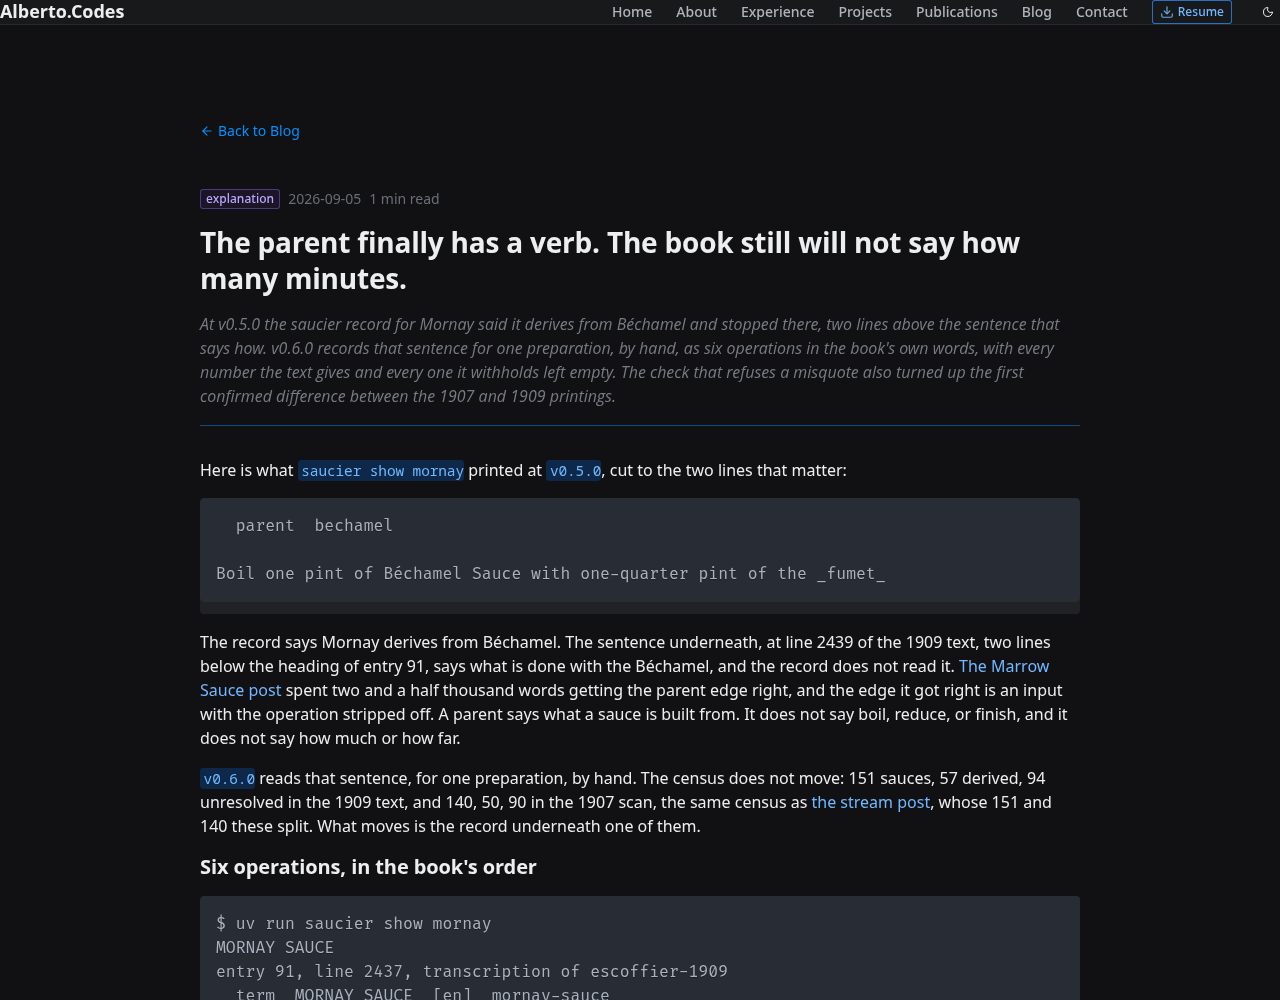
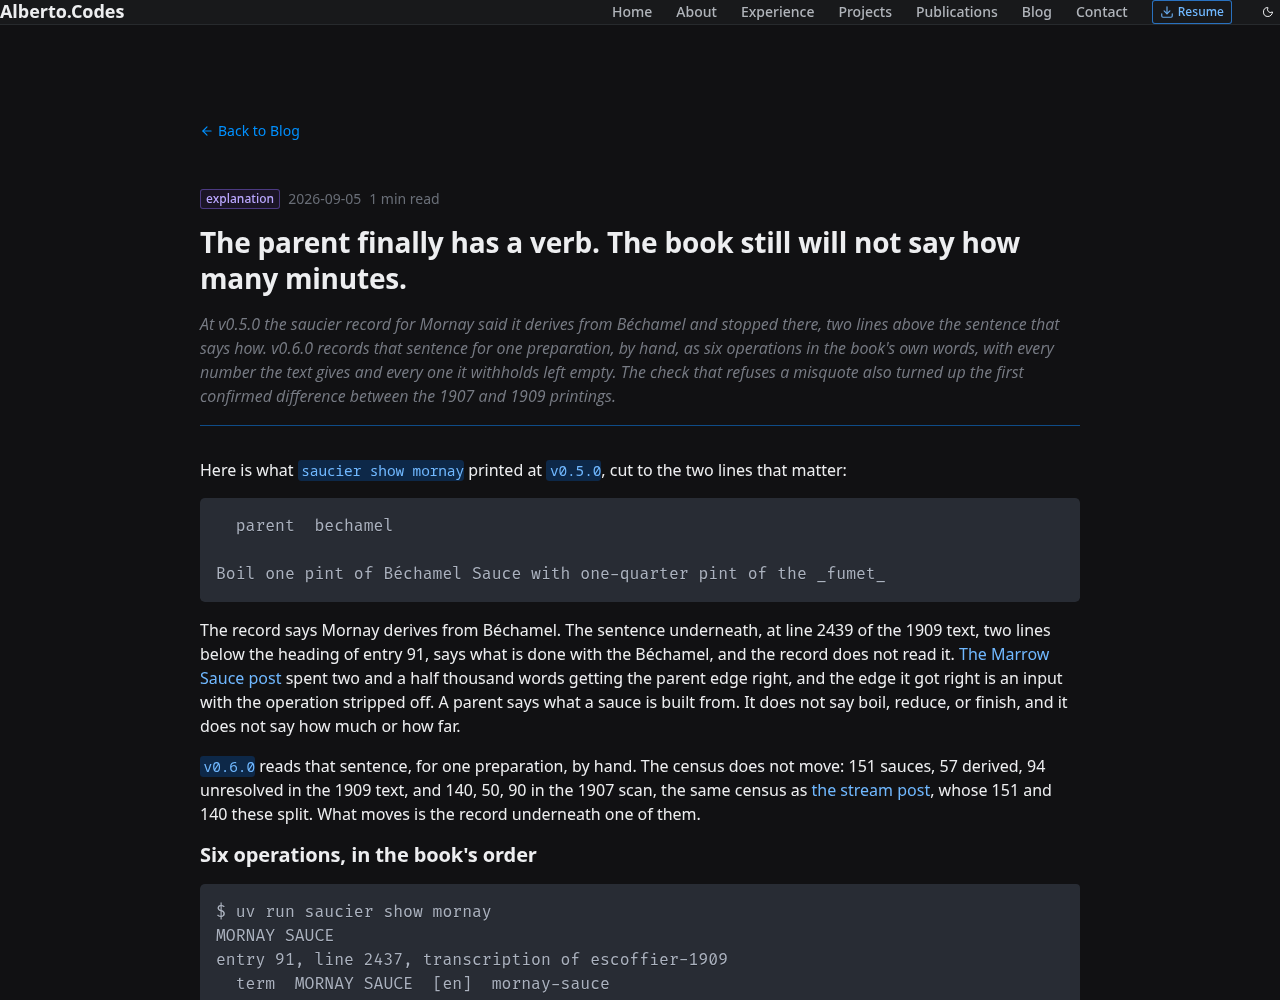
no-mistakes(review): give code cards one uniform background, drop dead min_width

Changed region(s): [[0.1562, 0.62, 0.8438, 1.0]]

diff --git a/src/alberto_codes_site/pages/blog.py b/src/alberto_codes_site/pages/blog.py
@@ -140,10 +140,7 @@ def _code_block(value: object, **props) -> rx.Component:
         type="auto",
         scrollbars="horizontal",
         width="100%",
-        min_width="0",
         margin_y="1em",
-        padding_bottom="12px",
-        background=rx.color("gray", 3),
         border_radius="var(--radius-2)",
         style={
             # Syntax-highlighter themes set these inline; only the viewport scrolls.

diff --git a/docs/validation/site-pre-overflow/README.md b/docs/validation/site-pre-overflow/README.md
@@ -29,11 +29,29 @@ scrollbar height; overlay scrollbars were invisible. After: all 17 blocks retain
 at `scrollLeft = 0`, in both themes, without hovering or scrolling. The other
 eight fit, and render no scrollbar element at all — the affordance appears
 exactly where content is hidden. The scroll viewport now owns scrolling; the
-inner `pre` takes its natural width. The dedicated 12 px bottom strip keeps the
-4 px track clear of text.
+inner `pre` takes its natural width.
+
+The card is one box with one background. The scroll wrapper is transparent and
+adds no padding, so the only painted background is the syntax theme's own on the
+`pre`, clipped to the wrapper's 4 px radius. The 4 px track sits inside the
+`pre`'s existing 16 px bottom padding — 4 px clear of the card edge and well
+clear of text — so no extra bottom strip is needed.
+
+A vertical scan of Post 6 card 1 at x = 1050, a column with no glyphs, reads a
+single value from the first code line to the card's bottom edge: light
+rgb(250, 250, 250) for y = 498–601, dark rgb(40, 44, 52) for the same rows, then
+straight to the page background. The previous revision painted the wrapper
+gray-3 and reserved a 12 px strip, which showed as a second colour for
+y = 602–613 — rgb(240, 240, 243) in light, rgb(33, 34, 37) in dark. That band is
+gone; see `cardBackgroundColumn` in [measurements.json](measurements.json).
 
 Thumb/track colors use the site's gray tokens: light rgb(96, 100, 108) against
-rgb(232, 232, 236), dark rgb(176, 180, 186) against rgb(39, 42, 45).
+rgb(232, 232, 236), dark rgb(176, 180, 186) against rgb(39, 42, 45). Sampled over
+an overflowing card, the thumb reads rgb(96, 100, 108) on rgb(250, 250, 250) in
+light and rgb(176, 180, 186) on rgb(40, 44, 52) in dark, so the thumb — the part
+that signals content is hidden — carries strong contrast in both. The track is
+near-invisible in dark now that it sits on the code background rather than a
+gray-3 strip; the thumb alone carries the affordance there.
 See [measurements.json](measurements.json) for exact computed colors and every
 block's dimensions, including non-overflowing blocks.
 
@@ -71,9 +89,14 @@ placeholder in the screenshot is unrelated to the code rendering change.
 
 Open a post in Chrome with `chrome-devtools-axi`, resize to the dimensions above,
 and evaluate the function in [measure.js](measure.js). Capture before interacting
-with any scrollbar. Toggle the navbar theme button and repeat. Check each row:
+with any scrollbar. Switch themes with the navbar toggle button and repeat —
+forcing the `dark` class onto `.radix-themes` is not equivalent, because the
+syntax highlighter picks its theme from Reflex's colour-mode state rather than
+from CSS, so the code cards stay light while the page turns dark. Check each row:
 `whiteSpace` is `pre`; and `visible` is true with nonzero thumb dimensions if and
 only if `overflow` is nonzero — a row with `overflow` zero must report
 `trackHeight` zero, because no scrollbar element is rendered for it.
 `pageOverflow` must be zero. Scroll an overflowing viewport with the keyboard and
-verify its maximum offset is reachable.
+verify its maximum offset is reachable. Finally, scan a glyph-free pixel column
+through a card in a screenshot and confirm it holds one rgb value from the first
+code line to the card's bottom edge.
